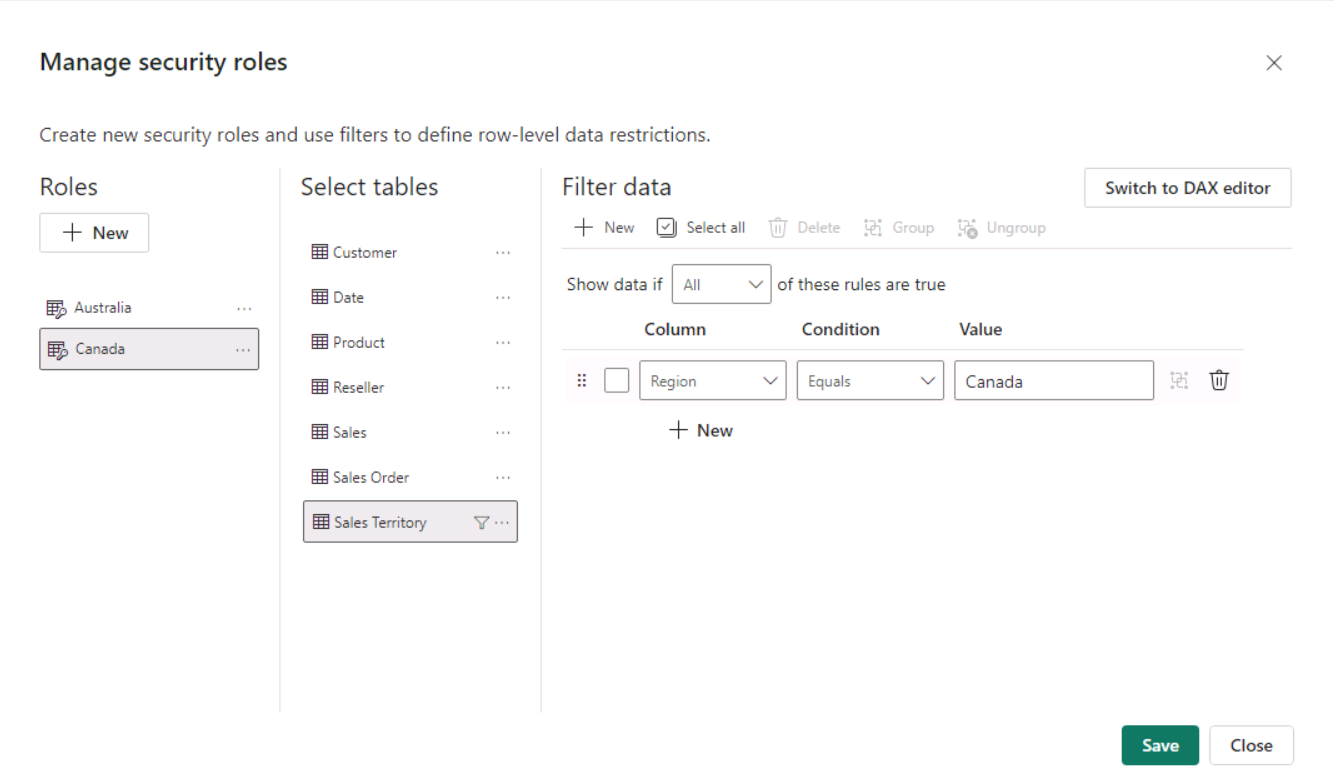
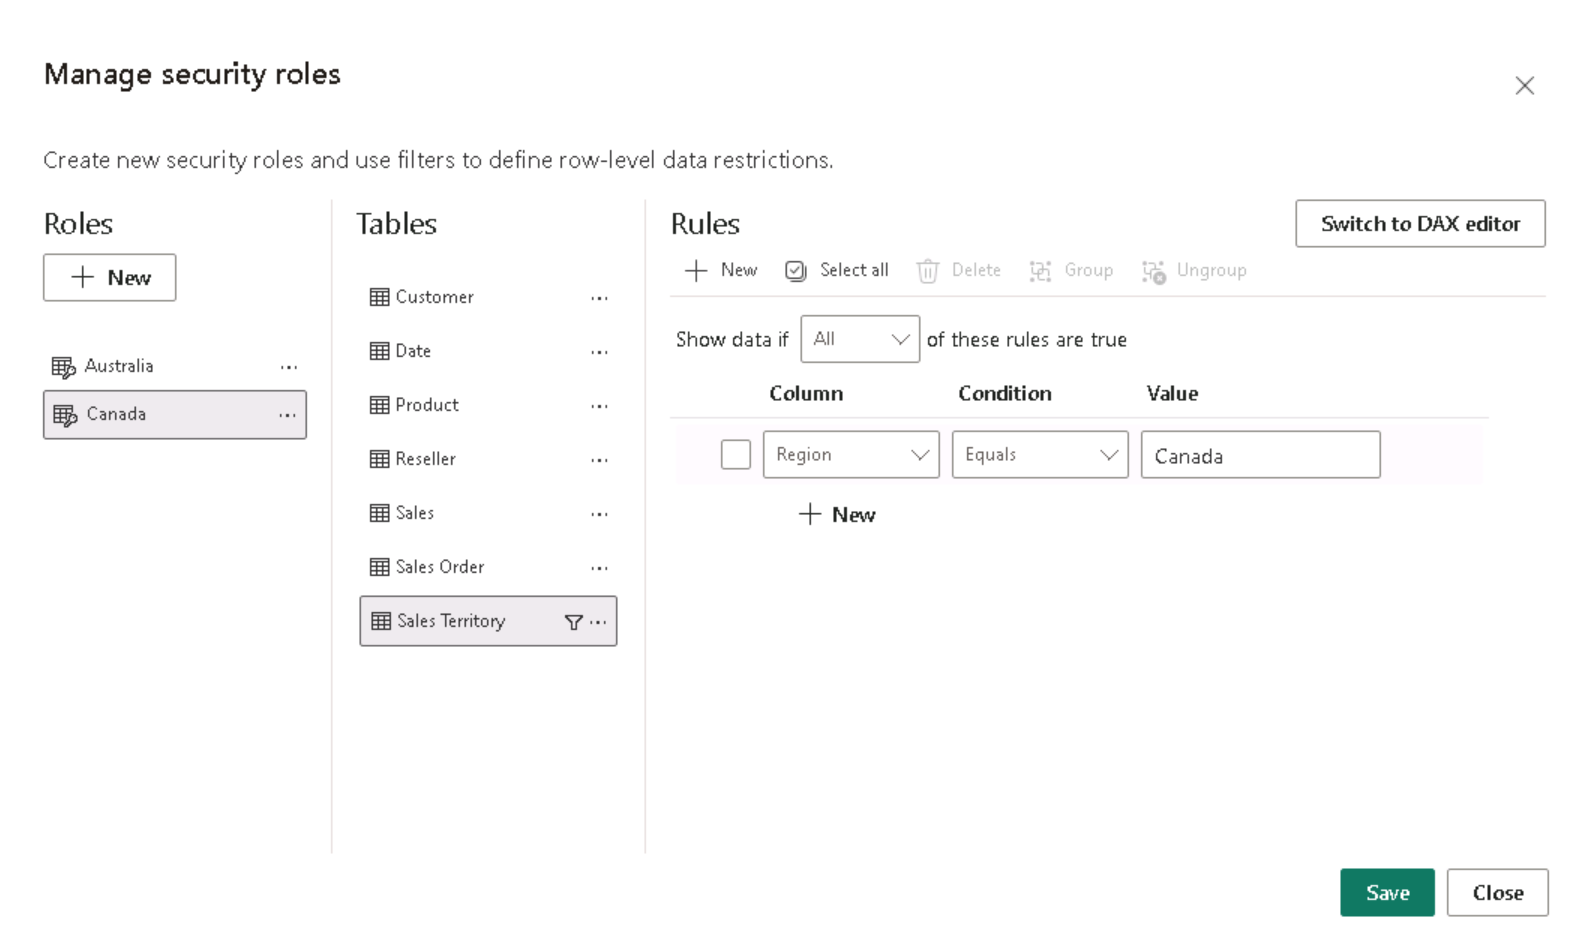
PowerBI UI updates
updated images and instructions to match the new UI

diff --git a/Instructions/Labs/17-enforce-model-security.md b/Instructions/Labs/17-enforce-model-security.md
@@ -102,7 +102,7 @@ In this task, you will create two static roles.
 
 5. To name the role, replace the selected *Untitled* text with **Australia**, and then press **Enter**.
 
-6. In the **Select tables** list, select **Sales Territory**, and then in the **Filter data** section, select **+ New**.
+6. In the **Select tables** list, select **Sales Territory**, and then in the **Rules** section, select **+ New**.
   
 7. In the new rule row, set the following settings:
 	* **Column**: Region
@@ -143,11 +143,11 @@ In this task, you will validate one of the static roles.
 
     ![](Images/enforce-model-security-image24.png)
 
-5. Across the top of the report, notice the yellow banner that confirms the enforced role.
+5. Across the top of the report, notice the red banner that confirms the enforced role.
 
     ![](Images/enforce-model-security-image25.png)
 
-6. To stop viewing by using the role, at the right of the yellow banner, select **Stop viewing**.
+6. To stop viewing by using the role, at the right of the red banner, select **Stop viewing**.
 
 	![](Images/enforce-model-security-image26.png)
 
@@ -373,7 +373,7 @@ In this task, you will create a dynamic role, which enforces permissions based o
 
     ![](Images/enforce-model-security-image62.png)
 
-3. In the **Manage roles** window, select **Create**.
+3. In the **Manage roles** window, select **+ New**.
 
     ![](Images/enforce-model-security-image63.png)
 
@@ -383,11 +383,15 @@ In this task, you will create a dynamic role, which enforces permissions based o
 
     *This time, only one role needs to be created.*
 
-5. Add a filter to the **UPN** column of the **Salesperson** table.
+5. select the **Salesperson** table and in the **Rules** tab, select **Switch to DAX editor**.
 
     ![](Images/enforce-model-security-image65.png)
 
-6. In the **Table filter DAX expression** box, replace **"Value"** with `USERPRINCIPALNAME()`.
+6. In the **DAX editor** box, enter the following expression:
+
+    ```DAX
+   [UPN] = USERPRINCIPALNAME()
+    ```
 
     ![](Images/enforce-model-security-image66.png)
 
@@ -425,11 +429,11 @@ In this task, you will validate the dynamic role.
 
     ![](Images/enforce-model-security-image72.png)
 
-6. Across the top of the report, notice the yellow banner that confirms the enforced role.
+6. Across the top of the report, notice the red banner that confirms the enforced role.
 
     ![](Images/enforce-model-security-image73.png)
 
-7. To stop viewing by using the role, at the right of the yellow banner, select **Stop viewing**.
+7. To stop viewing by using the role, at the right of the red banner, select **Stop viewing**.
 
     ![](Images/enforce-model-security-image74.png)
 

diff --git a/Instructions/Labs/14-create-dax-calculations.md b/Instructions/Labs/14-create-dax-calculations.md
@@ -183,7 +183,7 @@ In this task, you'll add more columns to enable filtering and grouping by differ
 
 	![Picture 21](Images/create-dax-calculations-in-power-bi-desktop_image28.png)
 
-1. Switch back to Report view. In the **Data** pane and select **Month**.
+1. Switch back to Report view. In the **Data** pane, select **Month**.
 
 1. On the **Column Tools** contextual ribbon, from inside the **Sort** group, select **Sort by Column**, and then select **MonthKey**.
 
@@ -231,7 +231,7 @@ In this task, you'll mark the **Date** table as a date table.
 
 1. On the **Table Tools** contextual ribbon, from inside the **Calendars** group, select **Mark as Date Table**.
 
-1. In the **Mark as a Date Table** window, slide the **Mark as a Date Table** property to **Yes** and in the **Choose a date column** dropdown list, select **Date**. Select **Save**.
+1. In the **Mark as a Date Table** window, slide the **Mark as a Date Table** property to **On** and in the **Choose a date column** dropdown list, select **Date**. Select **Save**.
 
 	![Mark as date table](Images/create-dax-calculations-in-power-bi-desktop_date-table.png)
 
